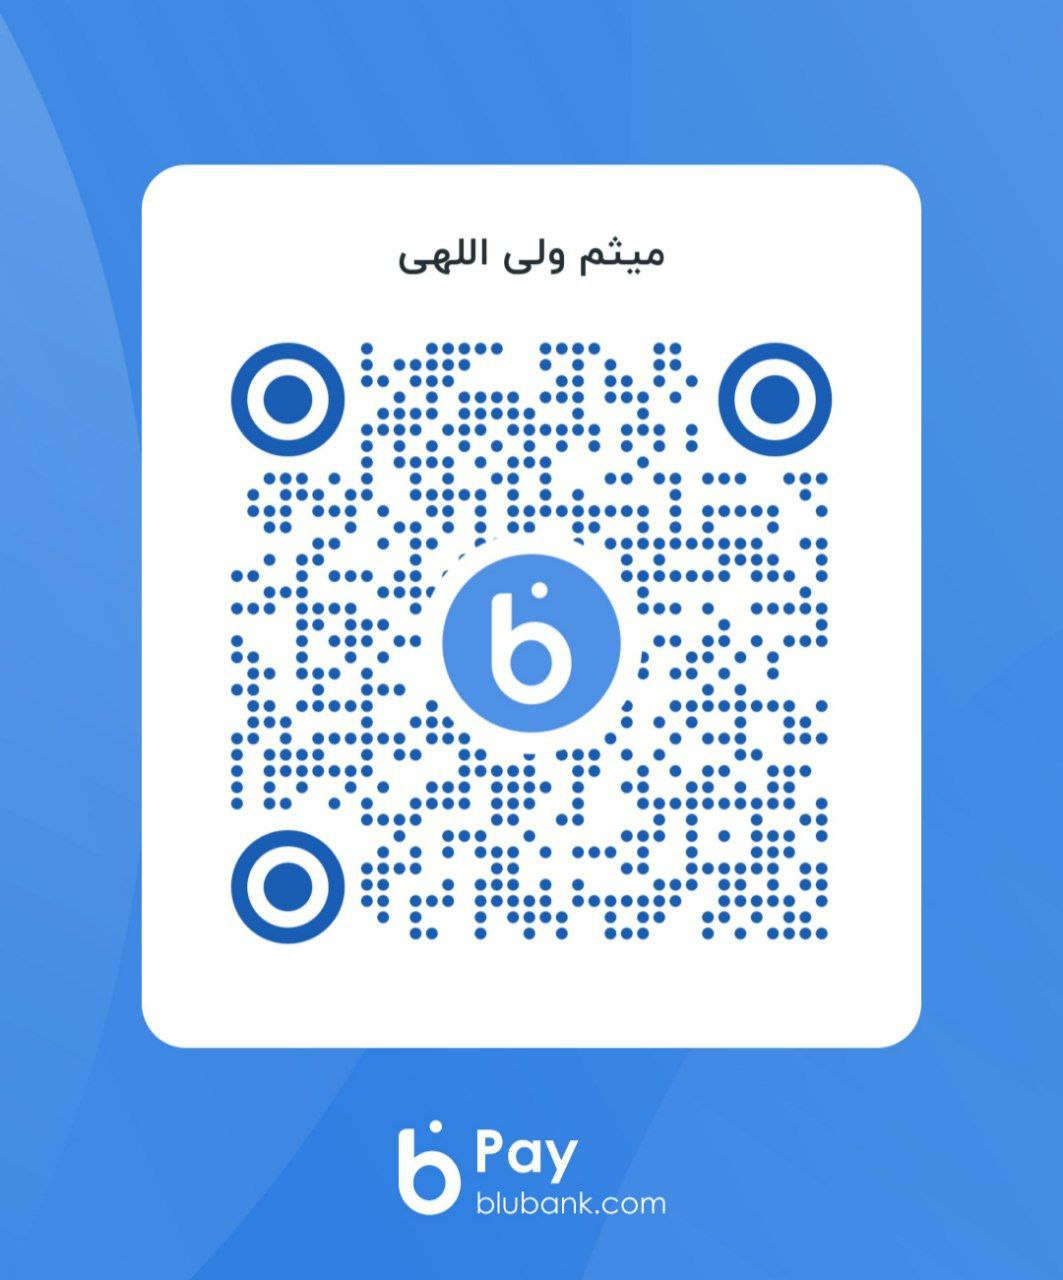
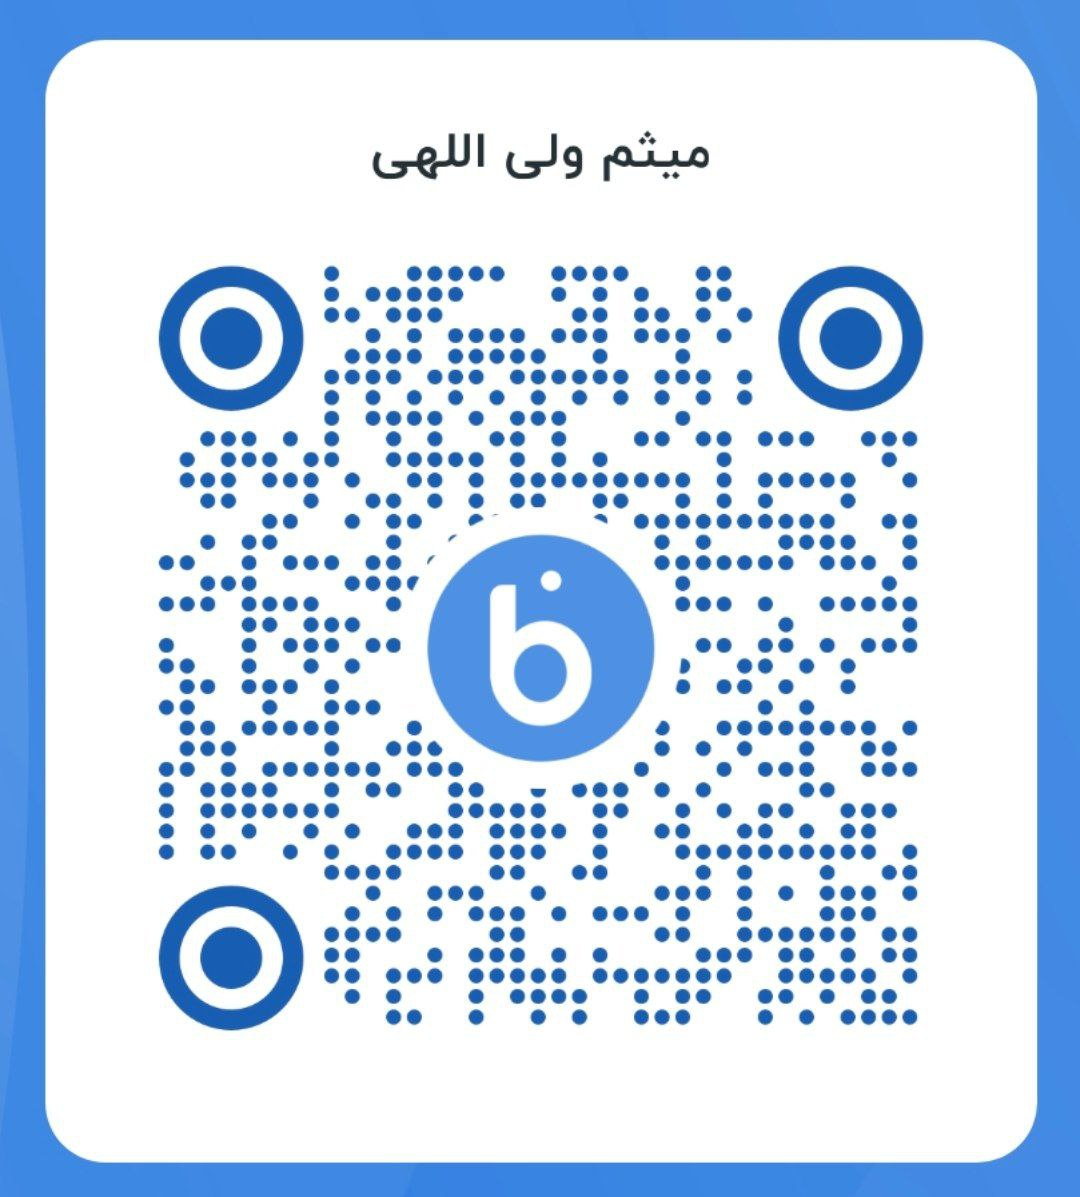
Update QR code

diff --git a/books/leading-effectice-engineering-teams/blue.html b/books/leading-effectice-engineering-teams/blue.html
@@ -42,7 +42,8 @@
 
     <div class="mb-4">
       <p class="mb-2 font-semibold text-sm text-gray-700">📷 یا اسکن کد QR بلوبانک:</p>
-      <img src="./images/qr.jpg" alt="QR Code بلوبانک" class="w-40 mx-auto rounded-lg shadow" />
+<img src="./images/qr.jpg" alt="QR Code بلوبانک" class="w-48 mx-auto rounded-lg shadow" />
+
     </div>
 
     <p class="text-gray-700 text-sm leading-6 mb-4">
